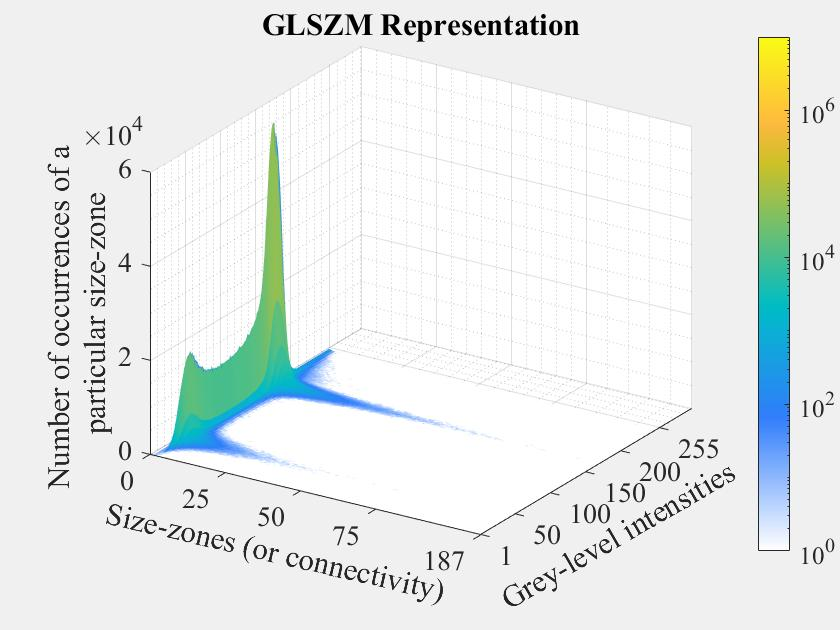
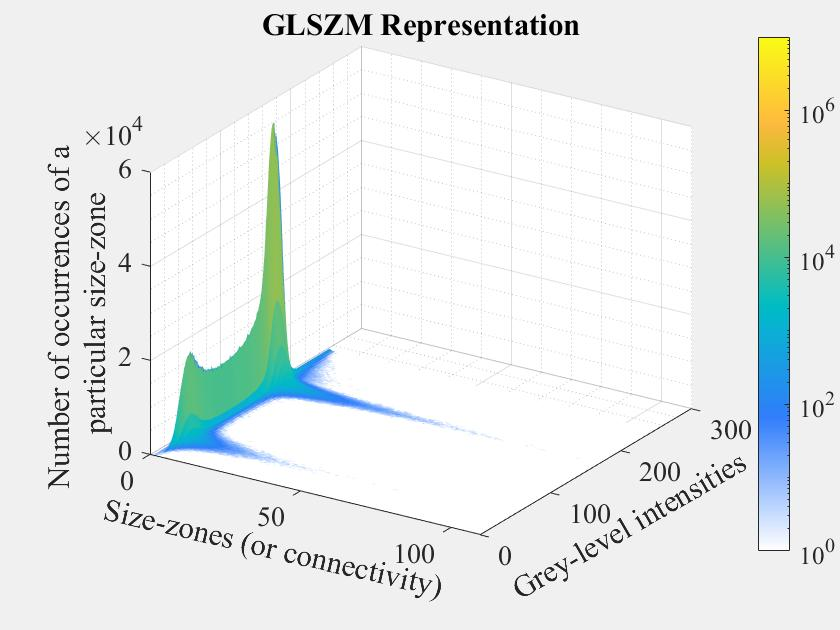
updated visualize GLSZM

Changed region(s): [[0.5881, 0.6635, 0.8976, 0.9651], [0.1238, 0.754, 0.5571, 0.9651]]

diff --git a/VisualizeGLSZM.m b/VisualizeGLSZM.m
@@ -43,9 +43,7 @@ view(axes1,[32.6030204120156 27.9295258786299]);
 grid(axes1,'on');
 % Set the remaining axes properties
 set(axes1,'CLim',[1 10000000],'ColorScale','log','FontName',...
-    'Times New Roman','FontSize',14,'XMinorGrid','on','XTick',[0 25 50 75 110],...
-    'XTickLabel',{'0','25','50','75','187'},'YMinorGrid','on','YTick',...
-    [1 50 100 150 200 255],'YTickLabel',{'1','50','100','150','200','255'},...
+    'Times New Roman','FontSize',14,'XMinorGrid','on','YMinorGrid','on',...
     'ZMinorGrid','on');
 % Create colorbar
 colorbar(axes1,'Position',...
